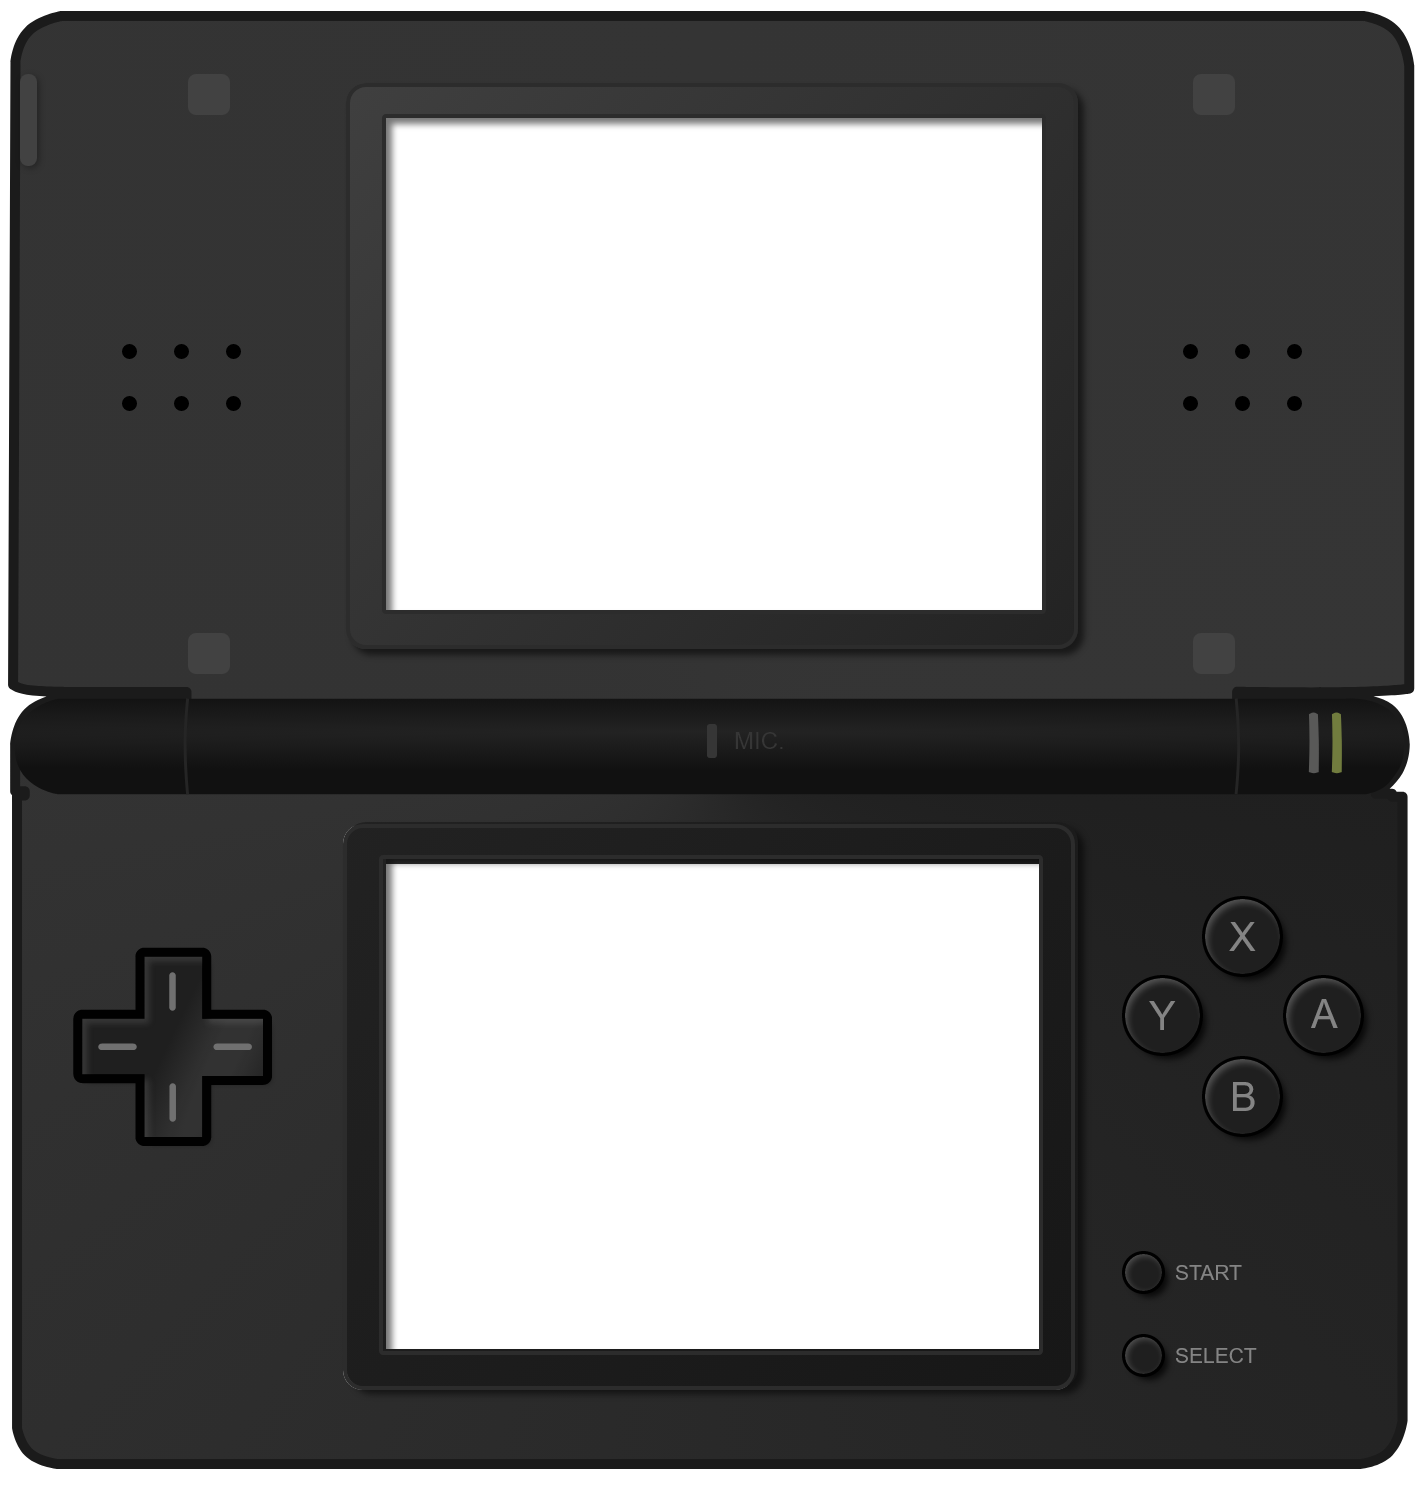
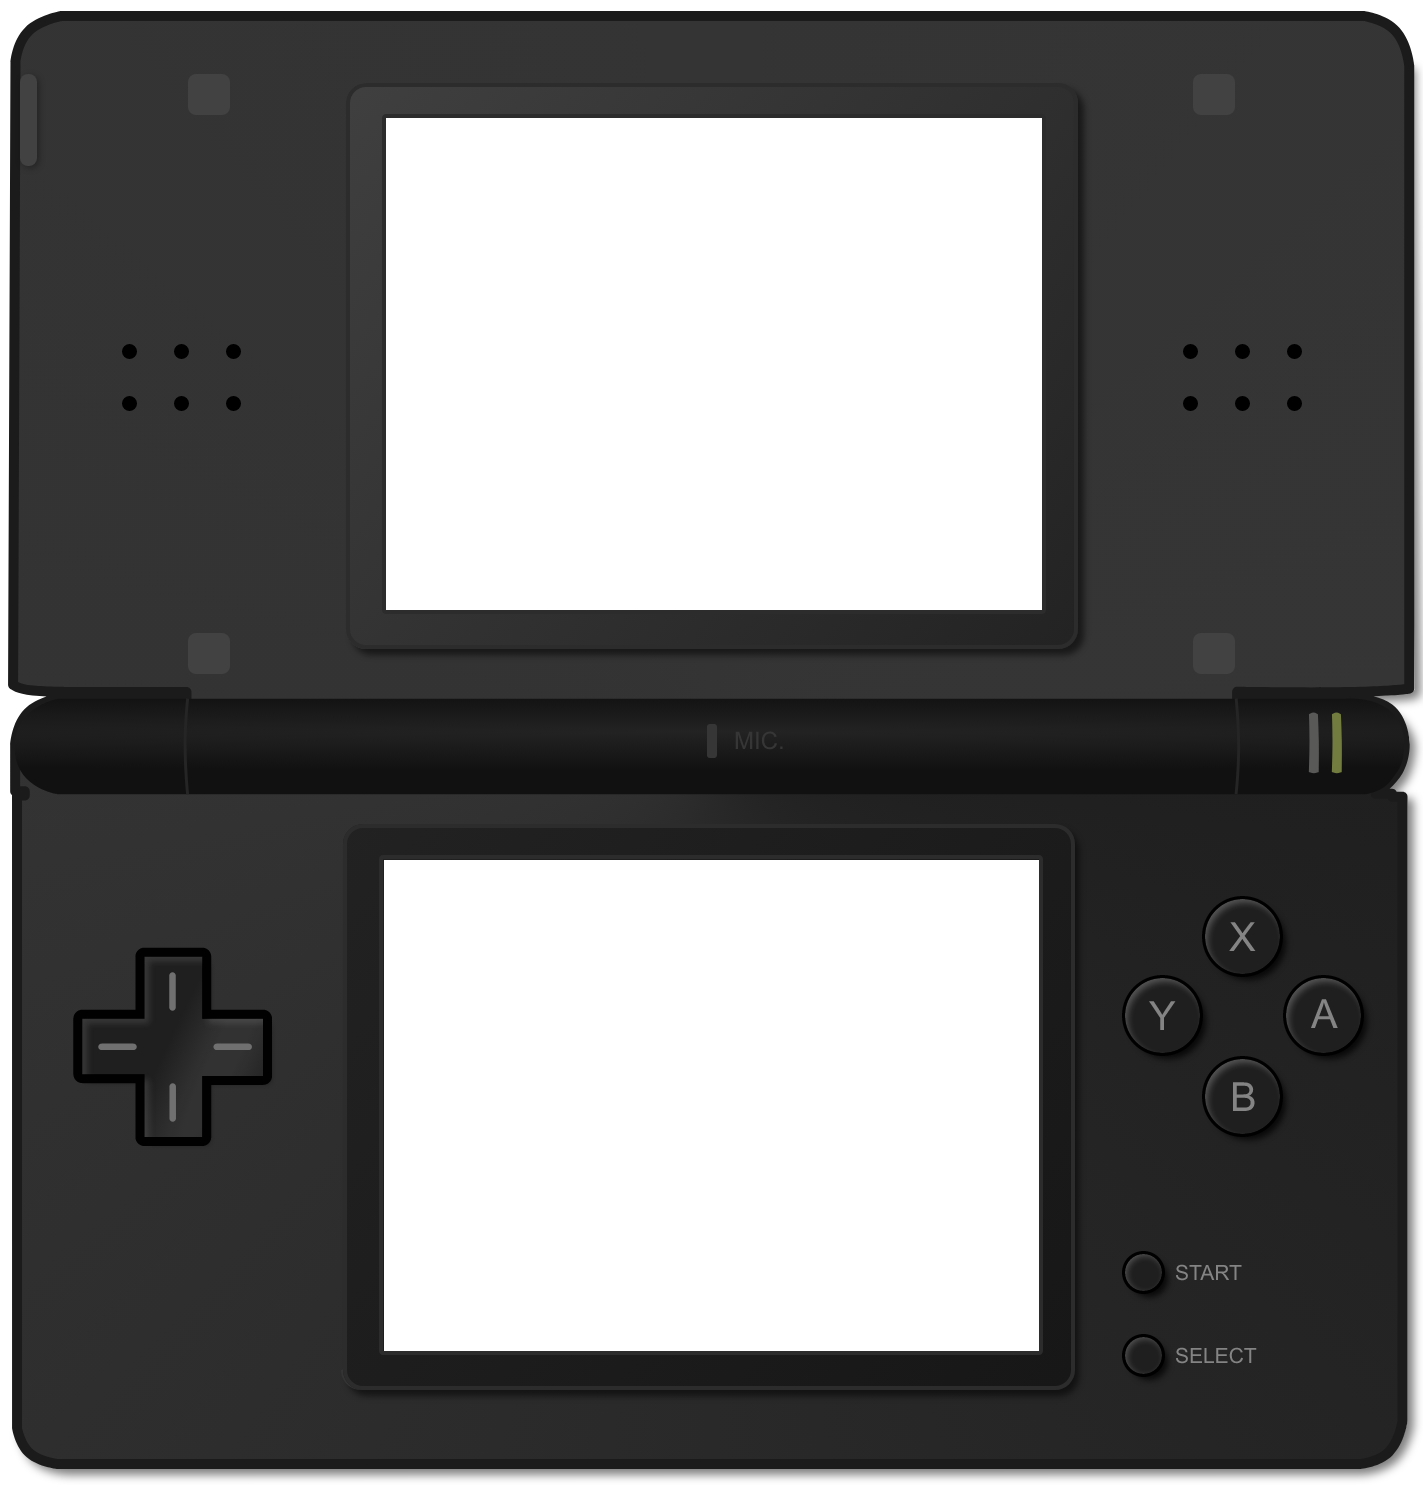
Update DSI graphic drop shadow

diff --git a/chokuretsu/index.html b/chokuretsu/index.html
@@ -39,7 +39,7 @@
                 <source src="assets/demo-reel.mp4" type="image/png"/>
                 Your browser doesn't support HTML5 video :-(
             </video>
-            <object id="ds-overlay" class="drop-shadow" width="610" height="640" data="assets/nintendo-dsi.svg"
+            <object id="ds-overlay" width="610" height="640" data="assets/nintendo-dsi.svg"
                     type="image/svg+xml">
                 <img src="assets/nintendo-dsi.png" alt="Nintendo DS playing The Series of Haruhi Suzumiya"/>
             </object>
